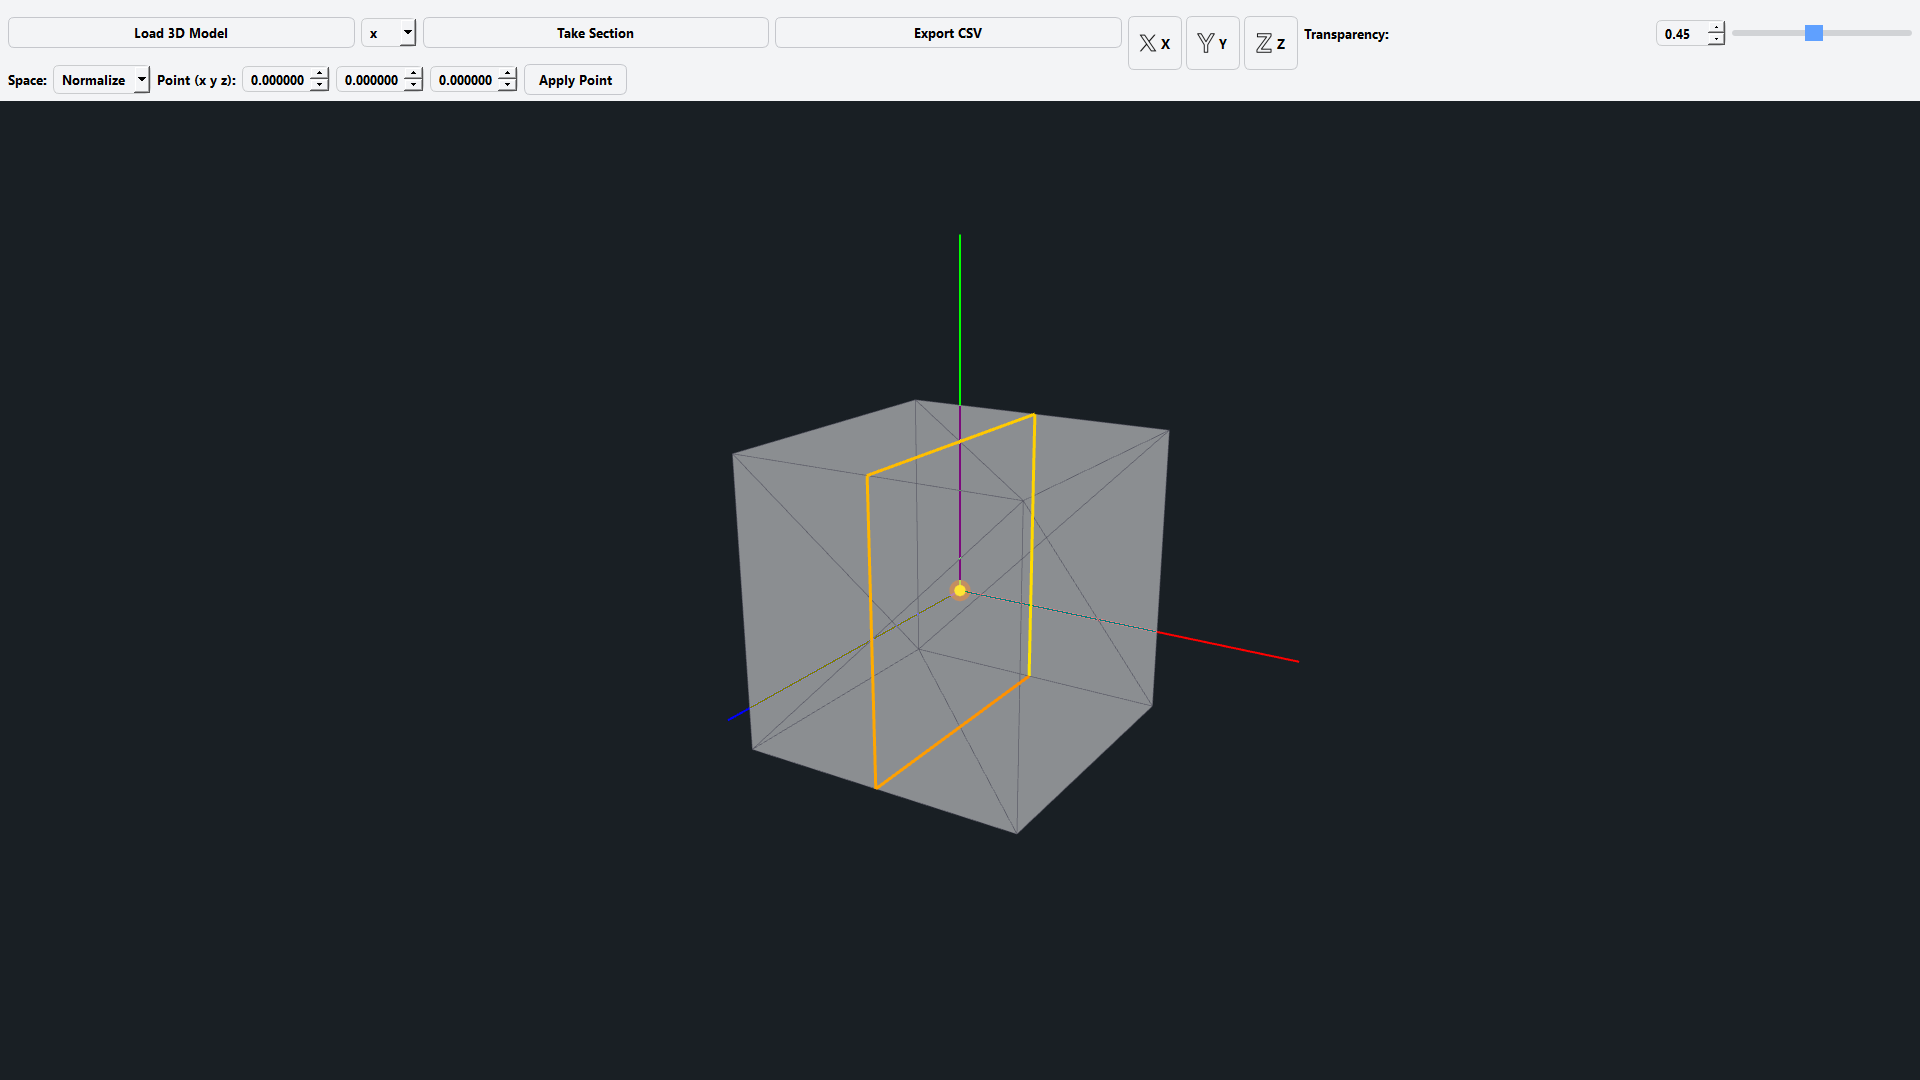
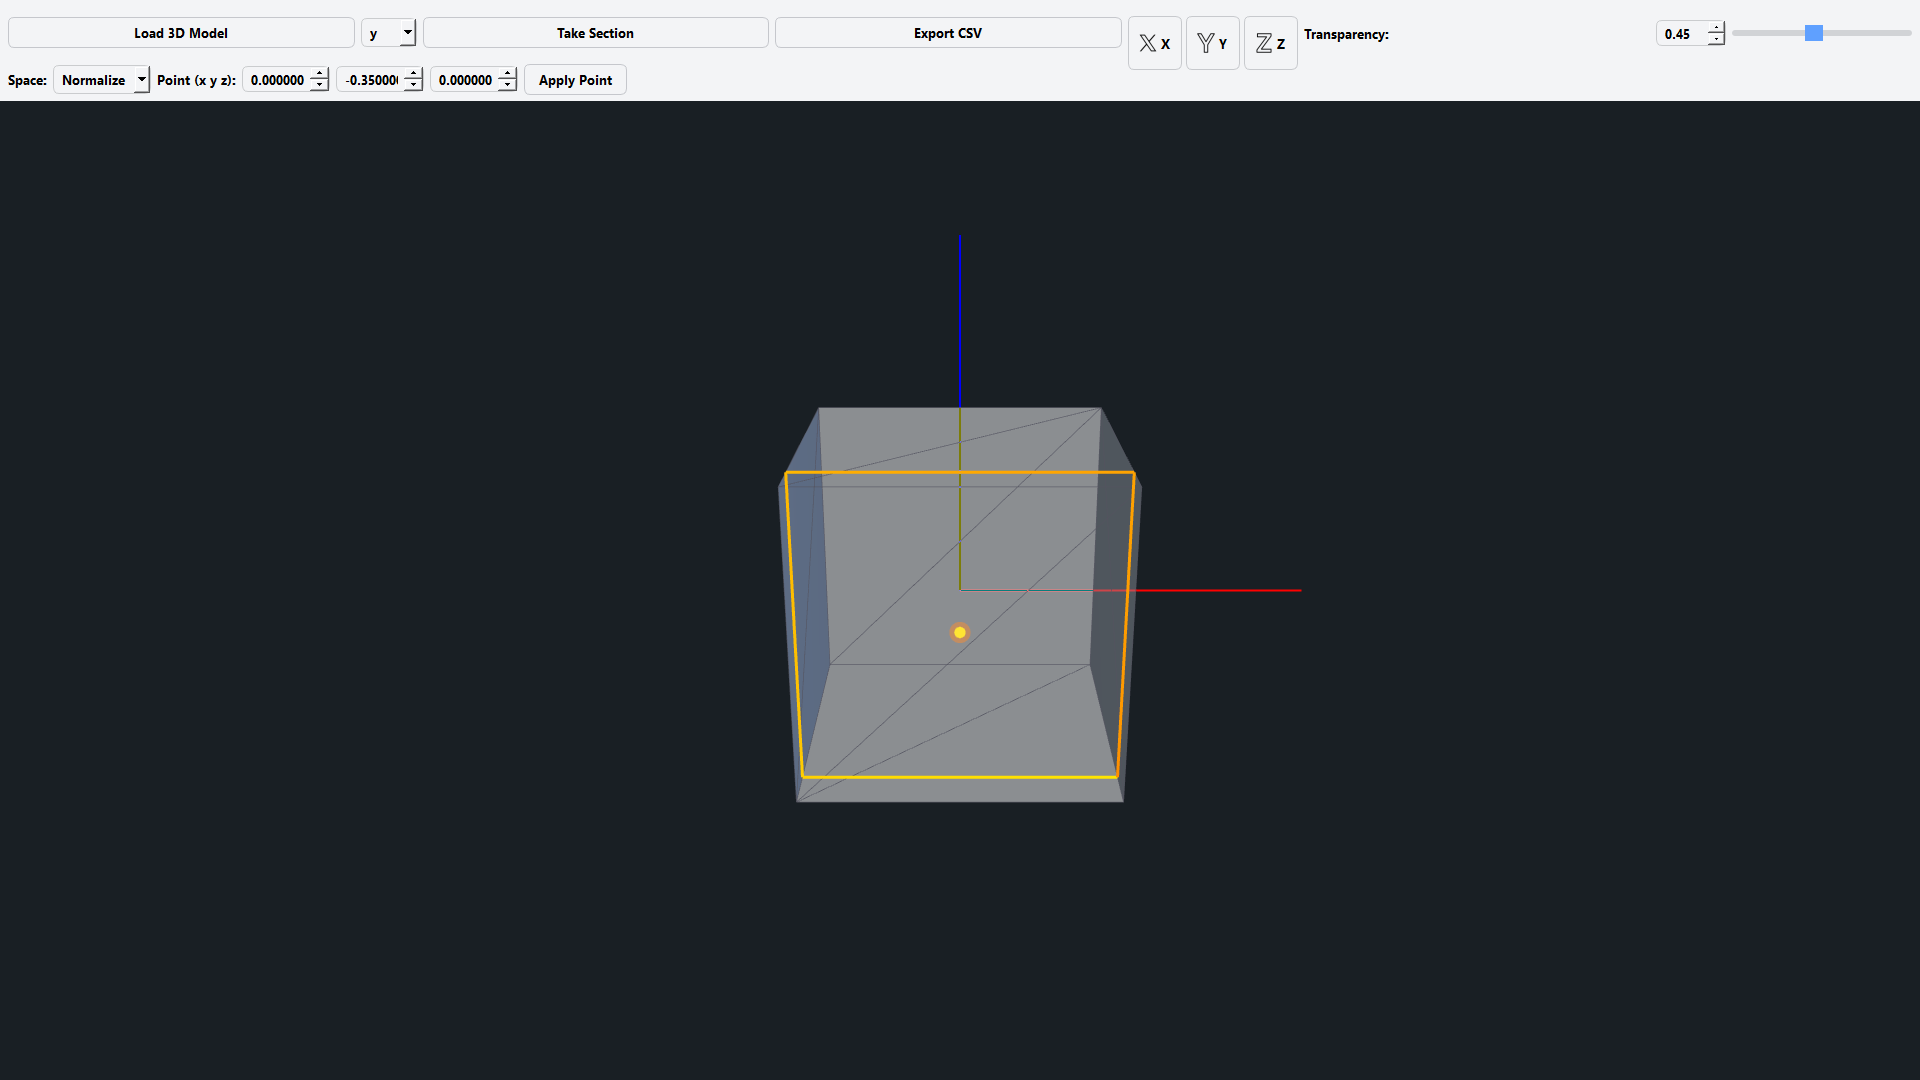
Show distinct X/Y/Z sections with real point values, plus Export CSV shots.

Changed region(s): [[0.375, 0.3667, 0.625, 0.7639], [0.5, 0.6417, 0.5312, 0.6722], [0.1875, 0.0611, 0.2188, 0.0917]]

diff --git a/app.js b/app.js
@@ -213,7 +213,9 @@ const MANIFEST = {
     "assets/staj-cpp/04-section-x.png",
     "assets/staj-cpp/05-section-y.png",
     "assets/staj-cpp/06-section-z.png",
-    "assets/staj-cpp/07-transparency.png"
+    "assets/staj-cpp/07-transparency.png",
+    "assets/staj-cpp/08-export-csv.png",
+    "assets/staj-cpp/09-csv-content.png"
   ]
 };
 
@@ -231,14 +233,16 @@ const GALLERY_CAPTIONS = {
   "07-profile.png": "Profil - nadire@nadire.com",
   "01-empty.png": "Bos baslangic - 3D Model Viewer",
   "02-model-loaded.png": "STL yuklendi - mesh + eksenler",
-  "03-point-applied.png": "Nokta secimi - Apply Point",
-  "04-section-x.png": "Kesit - X ekseni",
-  "05-section-y.png": "Kesit - Y ekseni",
-  "06-section-z.png": "Kesit - Z ekseni",
-  "07-transparency.png": "Seffaflik ayari"
+  "03-point-applied.png": "Nokta girisi - Apply Point (0.25, -0.15, 0.10)",
+  "04-section-x.png": "Kesit - X ekseni (kamera X)",
+  "05-section-y.png": "Kesit - Y ekseni (kamera Y)",
+  "06-section-z.png": "Kesit - Z ekseni (kamera Z)",
+  "07-transparency.png": "Seffaflik ayari",
+  "08-export-csv.png": "Export CSV - basari dialogu",
+  "09-csv-content.png": "Export CSV - kesit koordinatlari"
 };
 
-const IMG_CACHE_BUST = "20260921full3";
+const IMG_CACHE_BUST = "20260921sections";
 
 function prettyName(file) {
   if (GALLERY_CAPTIONS[file]) return GALLERY_CAPTIONS[file];
